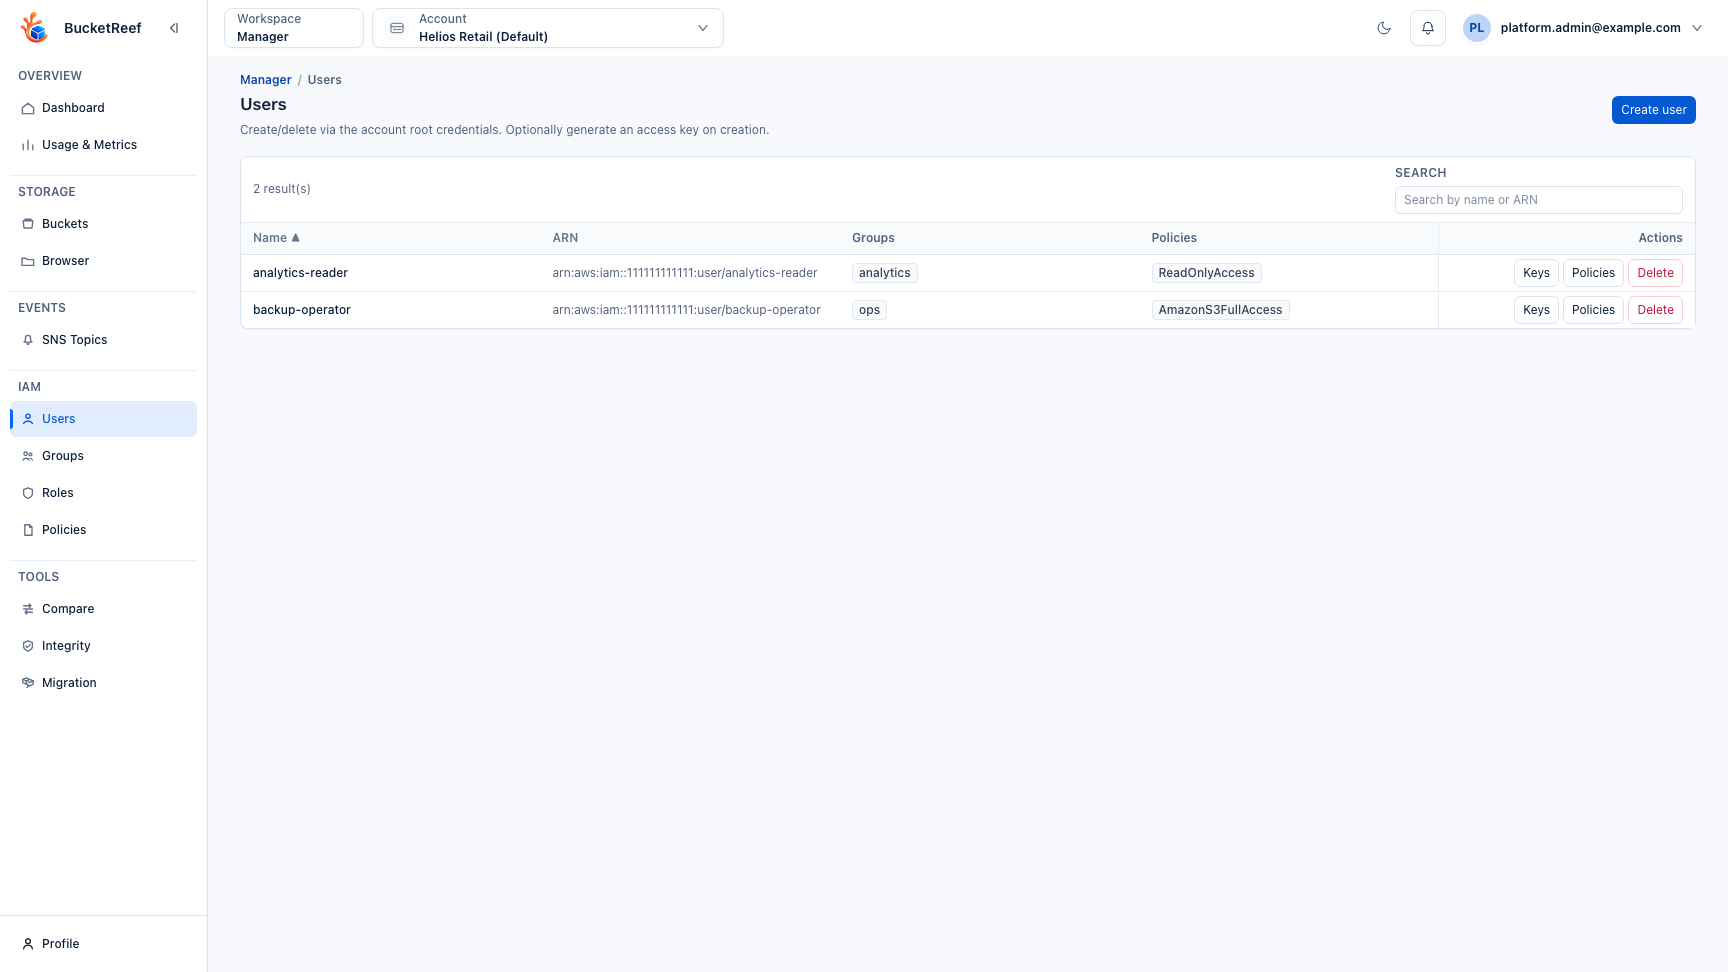
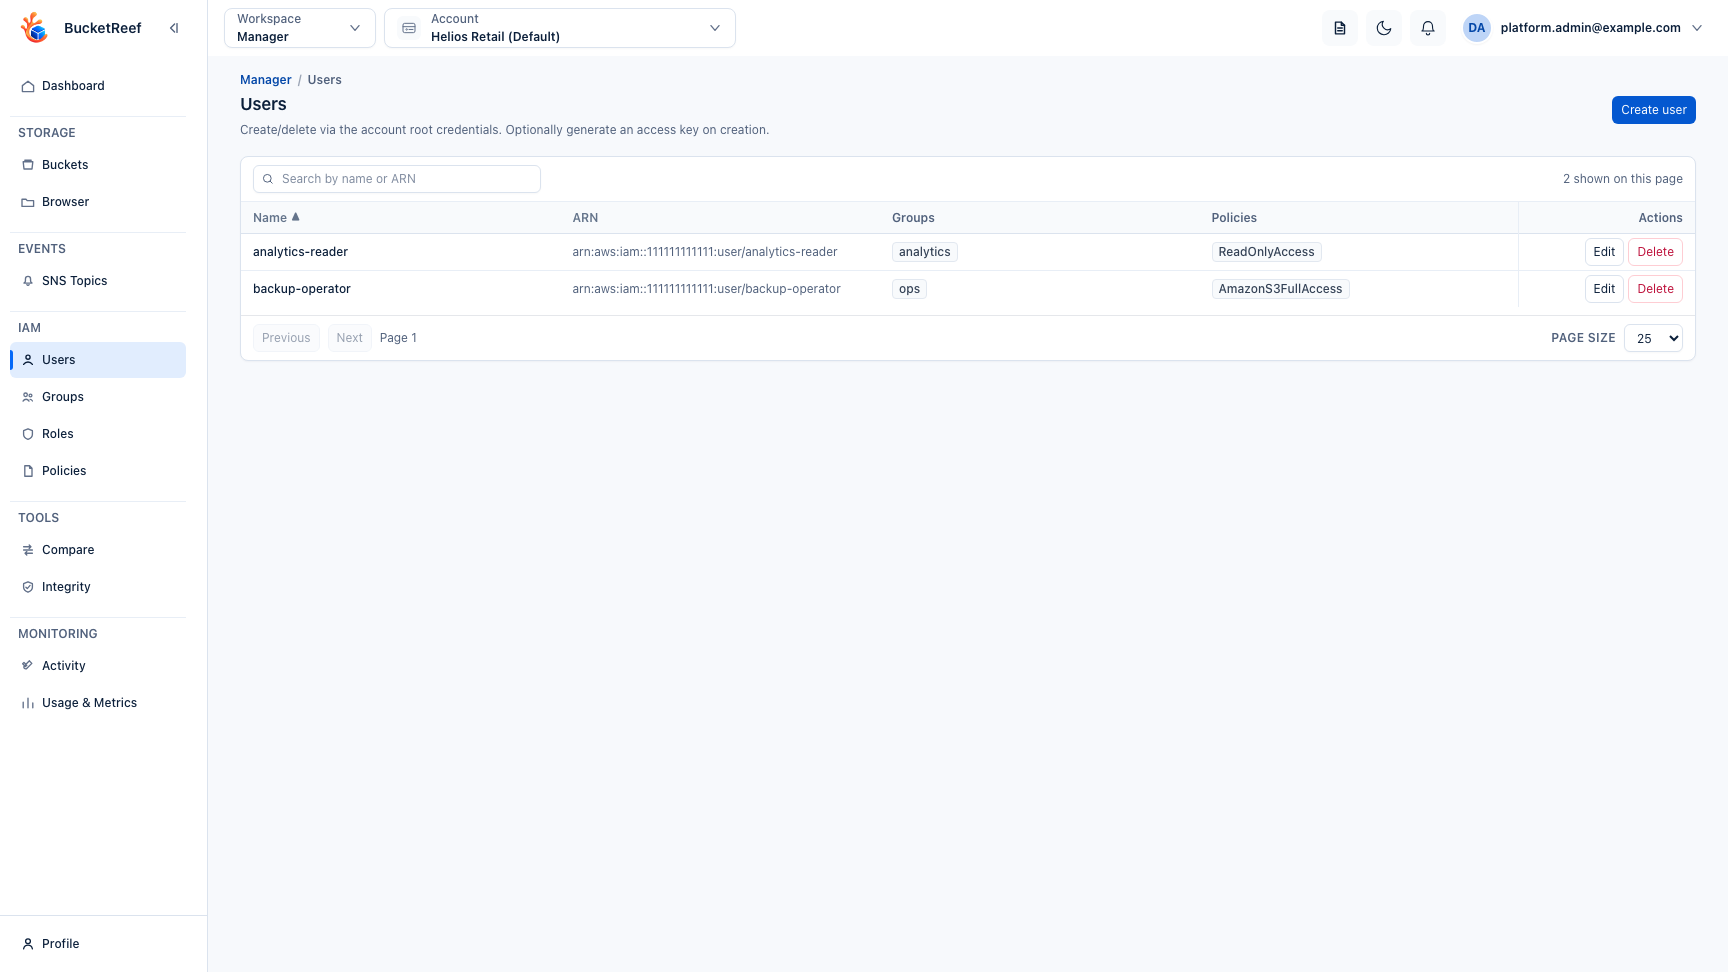
fix(manager): refresh visual states
Why:
Manager bucket and IAM surfaces still exposed stale visual patterns and duplicated load-error feedback, while screenshot fixtures no longer matched the paginated IAM routes.

What:
- Refresh the shared bucket overview metadata while preserving circular usage gauges and quick feature status labels across Manager and Ceph Admin.
- Normalize access-key guidance and deduplicate inventory load errors across Manager IAM/key surfaces and the equivalent Admin S3-user key surface.
- Update visual QA fixtures and scenarios, then regenerate the affected themed documentation screenshots.

Validation:
- 62 targeted Vitest tests passed.
- npm run lint
- npm run typecheck
- npm run listings:check
- npm run docs:screenshots:check
- 4/4 affected docs screenshot scenarios passed.
- 13/13 bucket and IAM visual QA scenarios passed.

diff --git a/frontend/src/features/manager/BucketDetailPage.tsx b/frontend/src/features/manager/BucketDetailPage.tsx
@@ -85,8 +85,6 @@ const bucketDetailTwoColumnGridClass = "grid gap-3 md:grid-cols-2";
 
 const bucketDetailSectionStackClass = "space-y-4";
 
-const bucketDetailTightStackClass = "space-y-1";
-
 type BucketDetailPageProps = {
   mode?: BucketDetailMode;
   bucketNameOverride?: string;
@@ -944,22 +942,25 @@ function BucketDetailPageContent({
             id: "overview",
             label: text("Overview"),
             content: (
-              <section className="space-y-4 px-1 py-2">
-                <header className={bucketDetailTightStackClass}>
-                  <h3 className="ui-subtitle font-semibold text-slate-900 dark:text-slate-100">
-                    {bucketName ? text("Bucket {name}", { name: bucketName }) : text("Bucket overview")}
-                  </h3>
-                  <dl className="flex flex-wrap gap-x-6 gap-y-1">
-                    <div className={bucketDetailHintClass}>
-                      <dt className="inline">{text("Owner:")} </dt>
-                      <dd className="inline font-semibold text-slate-700 dark:text-slate-200">{bucketOwner ?? text(loadingBucket || bucketAclLoading ? "Loading..." : "Unknown")}</dd>
-                    </div>
-                    <div className={bucketDetailHintClass}>
-                      <dt className="inline">{text("Created:")} </dt>
-                      <dd className="inline font-semibold text-slate-700 dark:text-slate-200">{loadingBucket ? text("Loading...") : formatLocalDateTime(bucket?.creation_date)}</dd>
-                    </div>
-                  </dl>
-                </header>
+              <section className="space-y-5 px-1 py-2">
+                <dl className="grid gap-x-8 gap-y-3 sm:grid-cols-2">
+                  <div className="min-w-0">
+                    <dt className={bucketDetailHintClass}>{text("Owner:")}</dt>
+                    <dd className="mt-0.5 min-w-0 break-words ui-body font-semibold text-slate-800 dark:text-slate-100">
+                      {bucketOwner ?? text(loadingBucket || bucketAclLoading ? "Loading..." : "Unknown")}
+                    </dd>
+                  </div>
+                  <div className="min-w-0">
+                    <dt className={bucketDetailHintClass}>{text("Created:")}</dt>
+                    <dd className="mt-0.5 min-w-0 break-words ui-body font-semibold text-slate-800 dark:text-slate-100">
+                      {loadingBucket
+                        ? text("Loading...")
+                        : bucket?.creation_date
+                          ? formatLocalDateTime(bucket.creation_date)
+                          : text("Unavailable")}
+                    </dd>
+                  </div>
+                </dl>
                 <div className={bucketDetailTwoColumnGridClass}>
                   <UsageTile
                     label={text("Storage")}

diff --git a/frontend/src/features/manager/ManagerCephKeysPage.tsx b/frontend/src/features/manager/ManagerCephKeysPage.tsx
@@ -23,6 +23,7 @@ import PageEmptyState from "../../components/PageEmptyState";
 import PageShell from "../../components/PageShell";
 import DataTableShell, { type DataTableColumn } from "../../components/list/DataTableShell";
 import { resolveListTableStatus } from "../../components/list/listTableStatus";
+import UiInlineMessage from "../../components/ui/UiInlineMessage";
 
 import { cx } from "../../components/ui/styles";
 import { extractApiError } from "../../utils/apiError";
@@ -363,7 +364,7 @@ export default function ManagerCephKeysPage() {
           : []),
       ]}
     >
-      {error && <PageBanner tone="error">{text(error)}</PageBanner>}
+      {error && tableStatus !== "error" && <PageBanner tone="error">{text(error)}</PageBanner>}
       {actionMessage && <PageBanner tone="success">{actionMessage}</PageBanner>}
 
       {createdKey && (
@@ -408,7 +409,11 @@ export default function ManagerCephKeysPage() {
       ) : (
         <ListPageSection variant="page"
           title={text("Keys")}
-          secondaryContent={<p>{text("BucketReef interface keys and managed private-access keys are locked; delete a managed key through its private connection.")}</p>}
+          secondaryContent={
+            <UiInlineMessage tone="info">
+              {text("BucketReef interface keys and managed private-access keys are locked; delete a managed key through its private connection.")}
+            </UiInlineMessage>
+          }
           countLabel={text(filteredKeys.length === 1 ? "{count} result" : "{count} results", { count: filteredKeys.length })}
           search={
             <UiInput aria-label={text("Search")} size="compact"
@@ -429,7 +434,7 @@ export default function ManagerCephKeysPage() {
             }
             status={tableStatus}
             loadingMessage={text("Loading keys...")}
-            errorMessage={text("Unable to load keys.")}
+            errorMessage={error ? text(error) : text("Unable to load keys.")}
             emptyMessage={text("No keys.")}
           />
         </ListPageSection>

diff --git a/frontend/src/features/manager/__tests__/BucketDetailPage.replication.test.tsx b/frontend/src/features/manager/__tests__/BucketDetailPage.replication.test.tsx
@@ -721,20 +721,22 @@ describe("BucketDetailPage replication state", () => {
     expect(onBack).toHaveBeenCalledOnce();
   });
 
-  it("renders the bucket overview without a redundant eyebrow or nested card shell", async () => {
+  it("renders a compact bucket overview without repeating the bucket title", async () => {
     render(
       <MemoryRouter>
         <BucketDetailPage mode="ceph-admin" bucketNameOverride="demo-bucket" embedded />
       </MemoryRouter>
     );
 
-    const bucketTitle = await screen.findByRole("heading", { name: "Bucket demo-bucket" });
-    const overviewSection = bucketTitle.closest("section");
+    const propertiesLabel = await screen.findByText("Bucket properties");
+    const overviewSection = propertiesLabel.closest("section");
 
     expect(overviewSection).not.toBeNull();
     expect(overviewSection).not.toHaveClass("ui-surface-card");
+    expect(within(overviewSection as HTMLElement).queryByRole("heading", { name: "Bucket demo-bucket" })).not.toBeInTheDocument();
     expect(within(overviewSection as HTMLElement).queryByText("Overview")).not.toBeInTheDocument();
     expect(within(overviewSection as HTMLElement).queryByText("Summary of enabled features.")).not.toBeInTheDocument();
+    expect(within(overviewSection as HTMLElement).getByText("Unavailable")).toBeInTheDocument();
 
     const propertiesGroup = within(overviewSection as HTMLElement).getByText("Bucket properties").parentElement;
     expect(propertiesGroup).not.toHaveClass("ui-surface-muted");

diff --git a/frontend/src/features/manager/PoliciesPage.tsx b/frontend/src/features/manager/PoliciesPage.tsx
@@ -171,7 +171,7 @@ export default function PoliciesPage() {
       />
 
       {actionMessage && <PageBanner tone="success">{actionMessage}</PageBanner>}
-      {!showCreateForm && error && <PageBanner tone="error">{text(error)}</PageBanner>}
+      {!showCreateForm && error && filteredTableStatus !== "error" && <PageBanner tone="error">{text(error)}</PageBanner>}
       {createManagedPolicyUnsupported && (
         <PageBanner tone="info">
           {text("This Ceph endpoint does not support creating managed IAM policies. Attach an existing managed policy or use inline policies on users, groups, and roles.")}
@@ -210,7 +210,7 @@ export default function PoliciesPage() {
             rowKey={(policy) => policy.arn}
             status={filteredTableStatus}
             loadingMessage={text("Loading policies...")}
-            errorMessage={text("Unable to load policies.")}
+            errorMessage={error ? text(error) : text("Unable to load policies.")}
             emptyMessage={text("No policies.")}
             responsiveCards
             tableLayout="fixed"

diff --git a/frontend/src/features/admin/S3UserKeysPage.tsx b/frontend/src/features/admin/S3UserKeysPage.tsx
@@ -288,7 +288,7 @@ export default function S3UserKeysPage() {
           {adminText("The interface key is reserved for the console. Delete other keys as needed, and rotate the interface key instead of deleting it.")}</PageBanner>
       )}
 
-      {error && <PageBanner tone="error">{error}</PageBanner>}
+      {error && tableStatus !== "error" && <PageBanner tone="error">{error}</PageBanner>}
       {actionMessage && <PageBanner tone="success">{actionMessage}</PageBanner>}
 
       {createdKey && createdKey.secret_access_key && (
@@ -317,7 +317,7 @@ export default function S3UserKeysPage() {
           }
           status={tableStatus}
           loadingMessage={adminText("Loading keys...")}
-          errorMessage={adminText("Unable to load keys.")}
+          errorMessage={error ?? adminText("Unable to load keys.")}
           emptyMessage={adminText("No keys for this user.")}
           tableLayout="fixed"
         />

diff --git a/frontend/src/features/manager/ManagerUsersPage.tsx b/frontend/src/features/manager/ManagerUsersPage.tsx
@@ -486,7 +486,7 @@ export default function ManagerUsersPage() {
           : []}
       />
 
-      {!showCreateForm && error && <PageBanner tone="error">{text(error)}</PageBanner>}
+      {!showCreateForm && error && tableStatus !== "error" && <PageBanner tone="error">{text(error)}</PageBanner>}
       {actionMessage && <PageBanner tone="success">{actionMessage}</PageBanner>}
 
       {createdKey && createdForUser && (
@@ -546,7 +546,7 @@ export default function ManagerUsersPage() {
             rowKey={(user) => user.name}
             status={tableStatus}
             loadingMessage={text("Loading users...")}
-            errorMessage={text("Unable to load users.")}
+            errorMessage={error ? text(error) : text("Unable to load users.")}
             emptyMessage={text("No users.")}
             responsiveCards
             sort={{ field: sort.field, direction: sort.direction, onSort: toggleSort }}

diff --git a/frontend/src/features/manager/ManagerUserKeysPage.tsx b/frontend/src/features/manager/ManagerUserKeysPage.tsx
@@ -346,7 +346,7 @@ export default function ManagerUserKeysPage({ embedded = false }: { embedded?: b
           </ListActionButton>
         </div>
       )}
-      {error && <PageBanner tone="error">{text(error)}</PageBanner>}
+      {error && tableStatus !== "error" && <PageBanner tone="error">{text(error)}</PageBanner>}
       {actionMessage && <PageBanner tone="success">{actionMessage}</PageBanner>}
 
       {createdKey && createdKey.secret_access_key && (
@@ -375,7 +375,7 @@ export default function ManagerUserKeysPage({ embedded = false }: { embedded?: b
           }
           status={tableStatus}
           loadingMessage={text("Loading keys...")}
-          errorMessage={text("Unable to load keys.")}
+          errorMessage={error ? text(error) : text("Unable to load keys.")}
           emptyMessage={text("No keys for this user.")}
         />
       </ListPageSection>

diff --git a/frontend/src/features/manager/ManagerGroupsPage.tsx b/frontend/src/features/manager/ManagerGroupsPage.tsx
@@ -287,7 +287,7 @@ export default function ManagerGroupsPage() {
         }
       />
 
-      {!showCreateForm && error && <PageBanner tone="error">{text(error)}</PageBanner>}
+      {!showCreateForm && error && filteredTableStatus !== "error" && <PageBanner tone="error">{text(error)}</PageBanner>}
       {actionMessage && <PageBanner tone="success">{actionMessage}</PageBanner>}
 
       {needsContextSelection ? (
@@ -322,7 +322,7 @@ export default function ManagerGroupsPage() {
             rowKey={(group) => group.name}
             status={filteredTableStatus}
             loadingMessage={text("Loading groups...")}
-            errorMessage={text("Unable to load groups.")}
+            errorMessage={error ? text(error) : text("Unable to load groups.")}
             emptyMessage={text("No groups.")}
             responsiveCards
             tableLayout="fixed"

diff --git a/frontend/src/features/manager/ManagerRolesPage.tsx b/frontend/src/features/manager/ManagerRolesPage.tsx
@@ -343,7 +343,7 @@ export default function ManagerRolesPage() {
         }
       />
 
-      {!showCreateForm && error && <PageBanner tone="error">{text(error)}</PageBanner>}
+      {!showCreateForm && error && filteredTableStatus !== "error" && <PageBanner tone="error">{text(error)}</PageBanner>}
       {actionMessage && <PageBanner tone="success">{actionMessage}</PageBanner>}
 
       {needsContextSelection ? (
@@ -378,7 +378,7 @@ export default function ManagerRolesPage() {
             rowKey={(role) => role.name}
             status={filteredTableStatus}
             loadingMessage={text("Loading roles...")}
-            errorMessage={text("Unable to load roles.")}
+            errorMessage={error ? text(error) : text("Unable to load roles.")}
             emptyMessage={text("No roles.")}
             responsiveCards
             tableLayout="fixed"

diff --git a/frontend/scripts/docs-screenshots/fixtures/base.ts b/frontend/scripts/docs-screenshots/fixtures/base.ts
@@ -2021,14 +2021,29 @@ export function buildBaseRules(): MockRule[] {
       body: IAM_USERS,
     },
     {
+      id: "manager-iam-users-page",
+      path: /^\/manager\/iam\/users\/page$/,
+      body: { items: IAM_USERS, next_marker: null },
+    },
+    {
       id: "manager-iam-groups",
       path: /^\/manager\/iam\/groups$/,
       body: IAM_GROUPS,
     },
     {
+      id: "manager-iam-groups-page",
+      path: /^\/manager\/iam\/groups\/page$/,
+      body: { items: IAM_GROUPS, next_marker: null },
+    },
+    {
       id: "manager-iam-policies",
       path: /^\/manager\/iam\/policies$/,
       body: IAM_POLICIES,
+    },
+    {
+      id: "manager-iam-policies-page",
+      path: /^\/manager\/iam\/policies\/page$/,
+      body: { items: IAM_POLICIES, next_marker: null },
     },
     {
       id: "manager-topics",

diff --git a/frontend/scripts/docs-screenshots/scenarios.ts b/frontend/scripts/docs-screenshots/scenarios.ts
@@ -1766,7 +1766,7 @@ export const scenarios: DocScreenshotScenario[] = [
     storage: { ...baseStorage(), selectedWorkspace: "manager" },
     actions: [
       { type: "click", selector: "button:has-text('Usage composition')" },
-      { type: "wait", selector: "text=Account usage composition" },
+      { type: "wait", selector: "h2:has-text('Usage composition')" },
       { type: "wait", selector: "text=Data types" },
       { type: "wait", selector: "text=3 / 3 buckets covered" },
     ],
